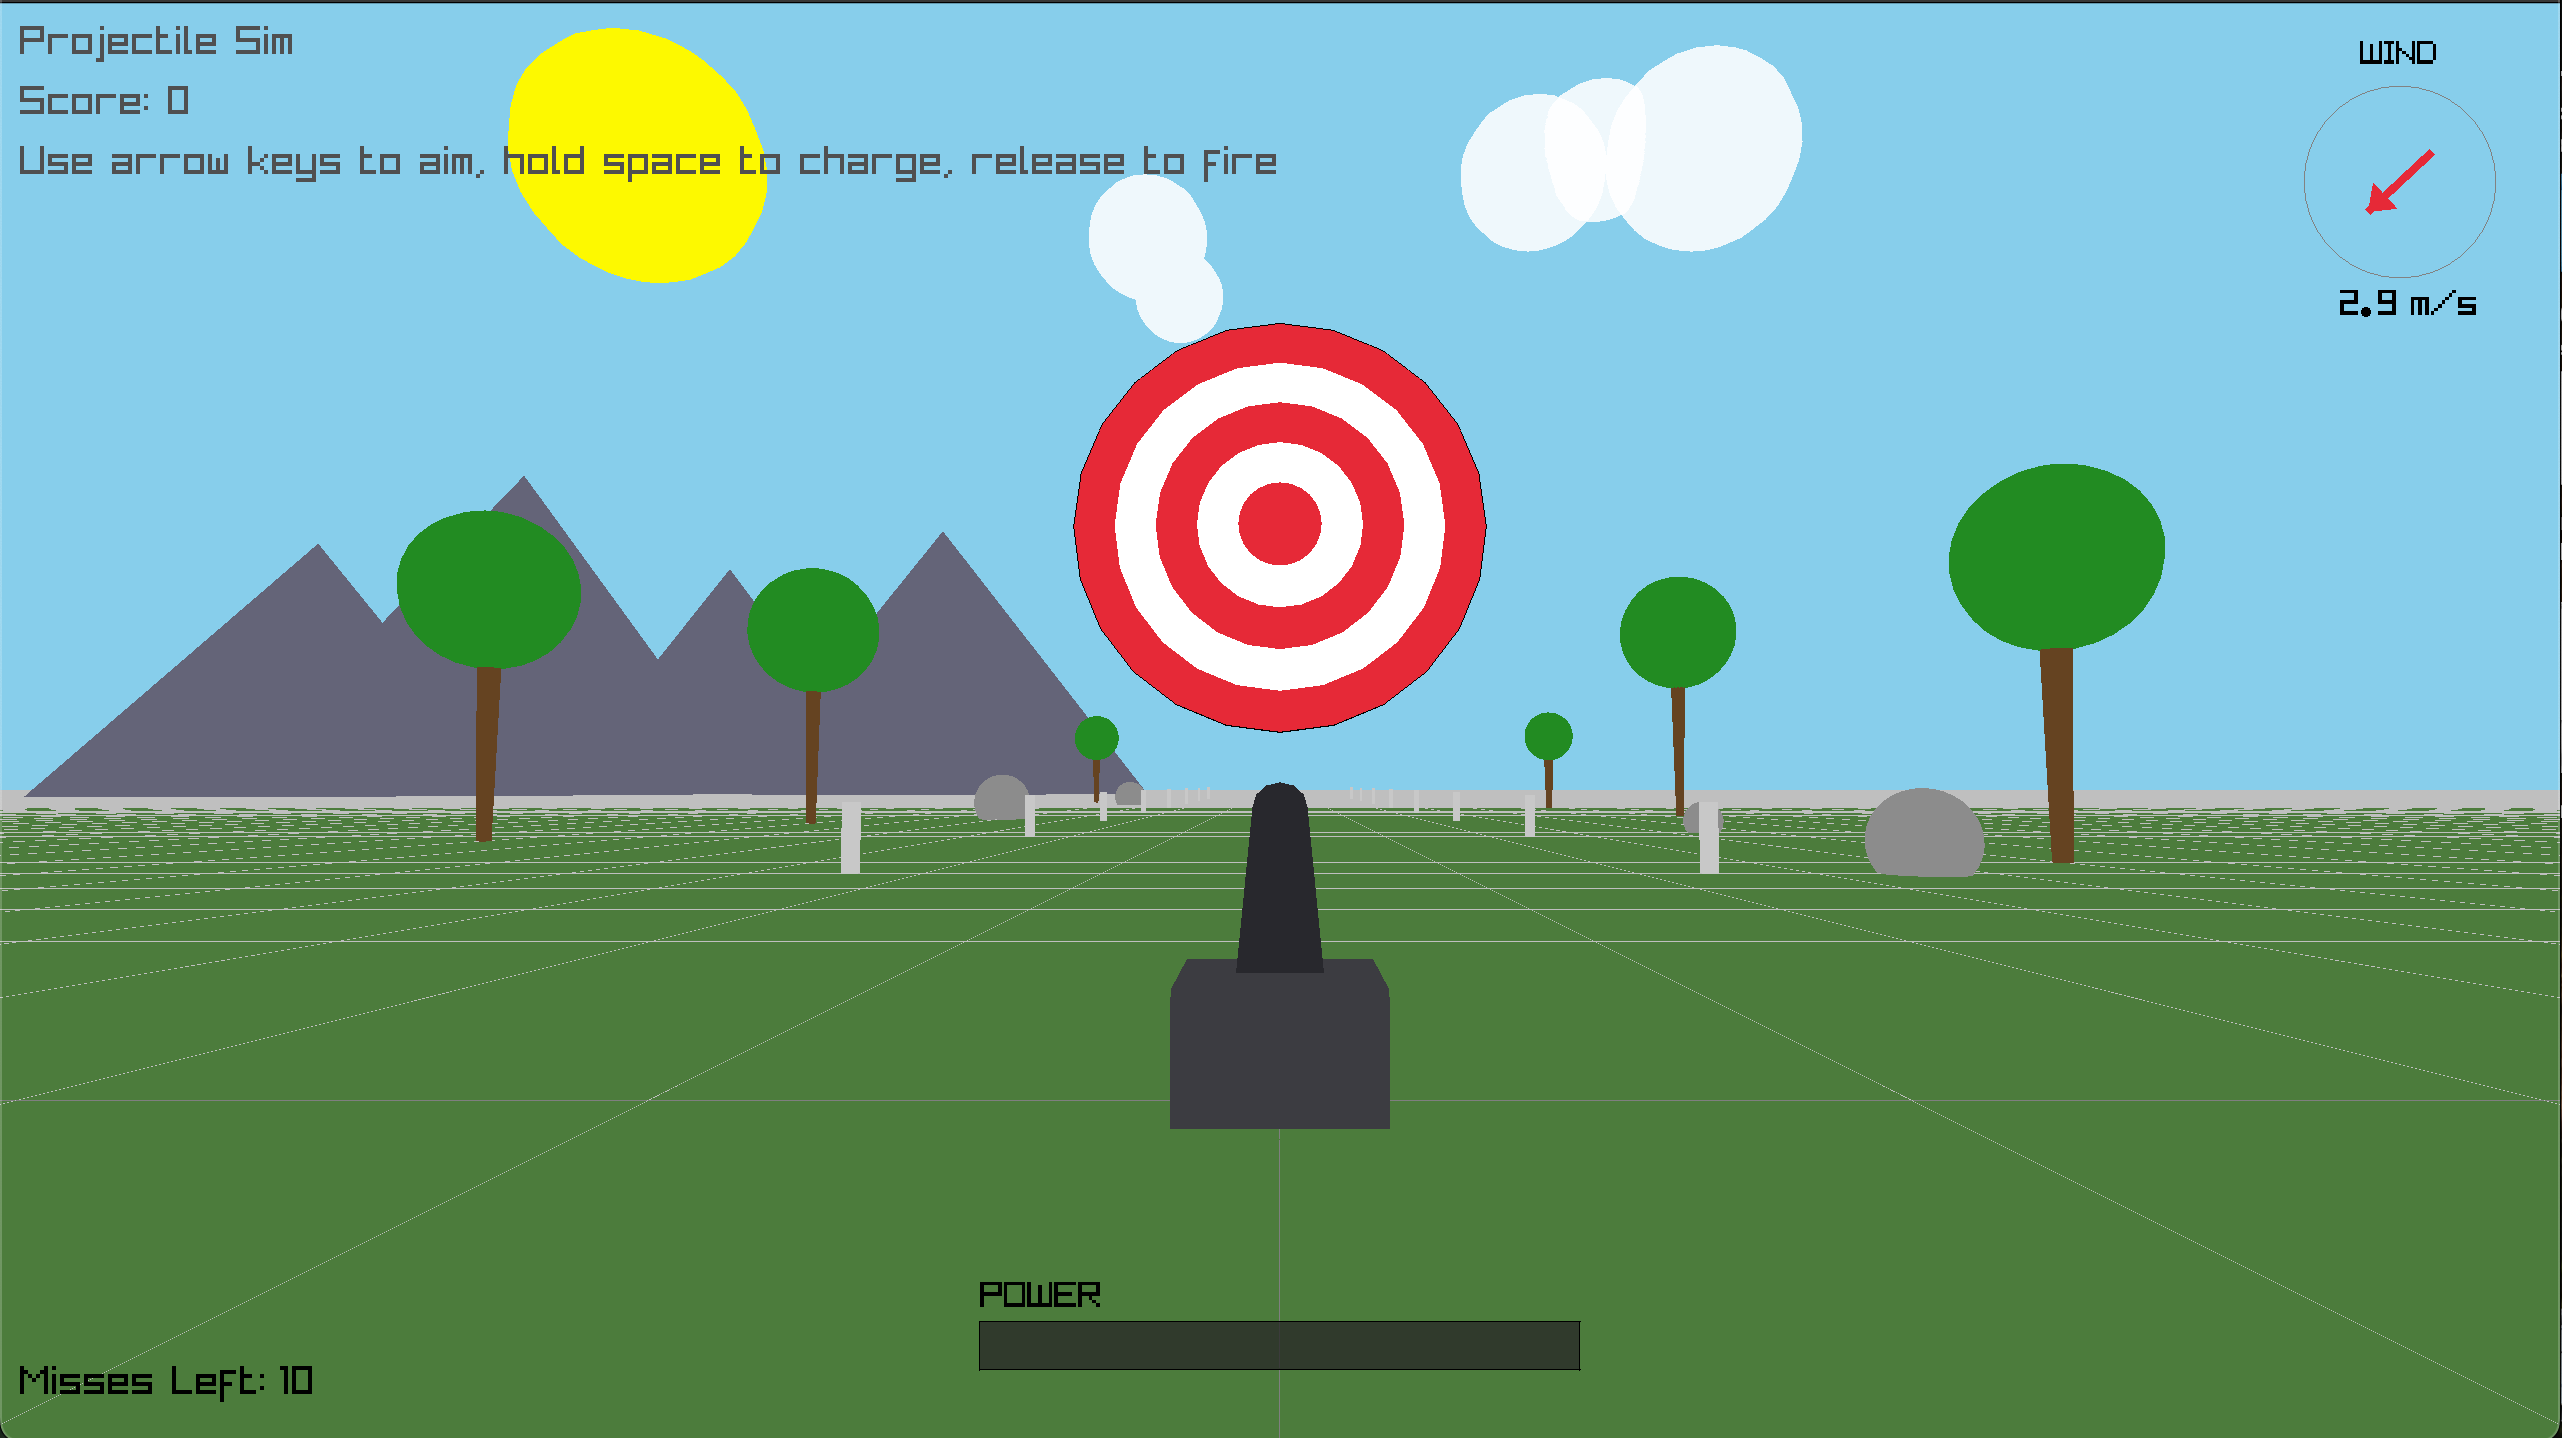
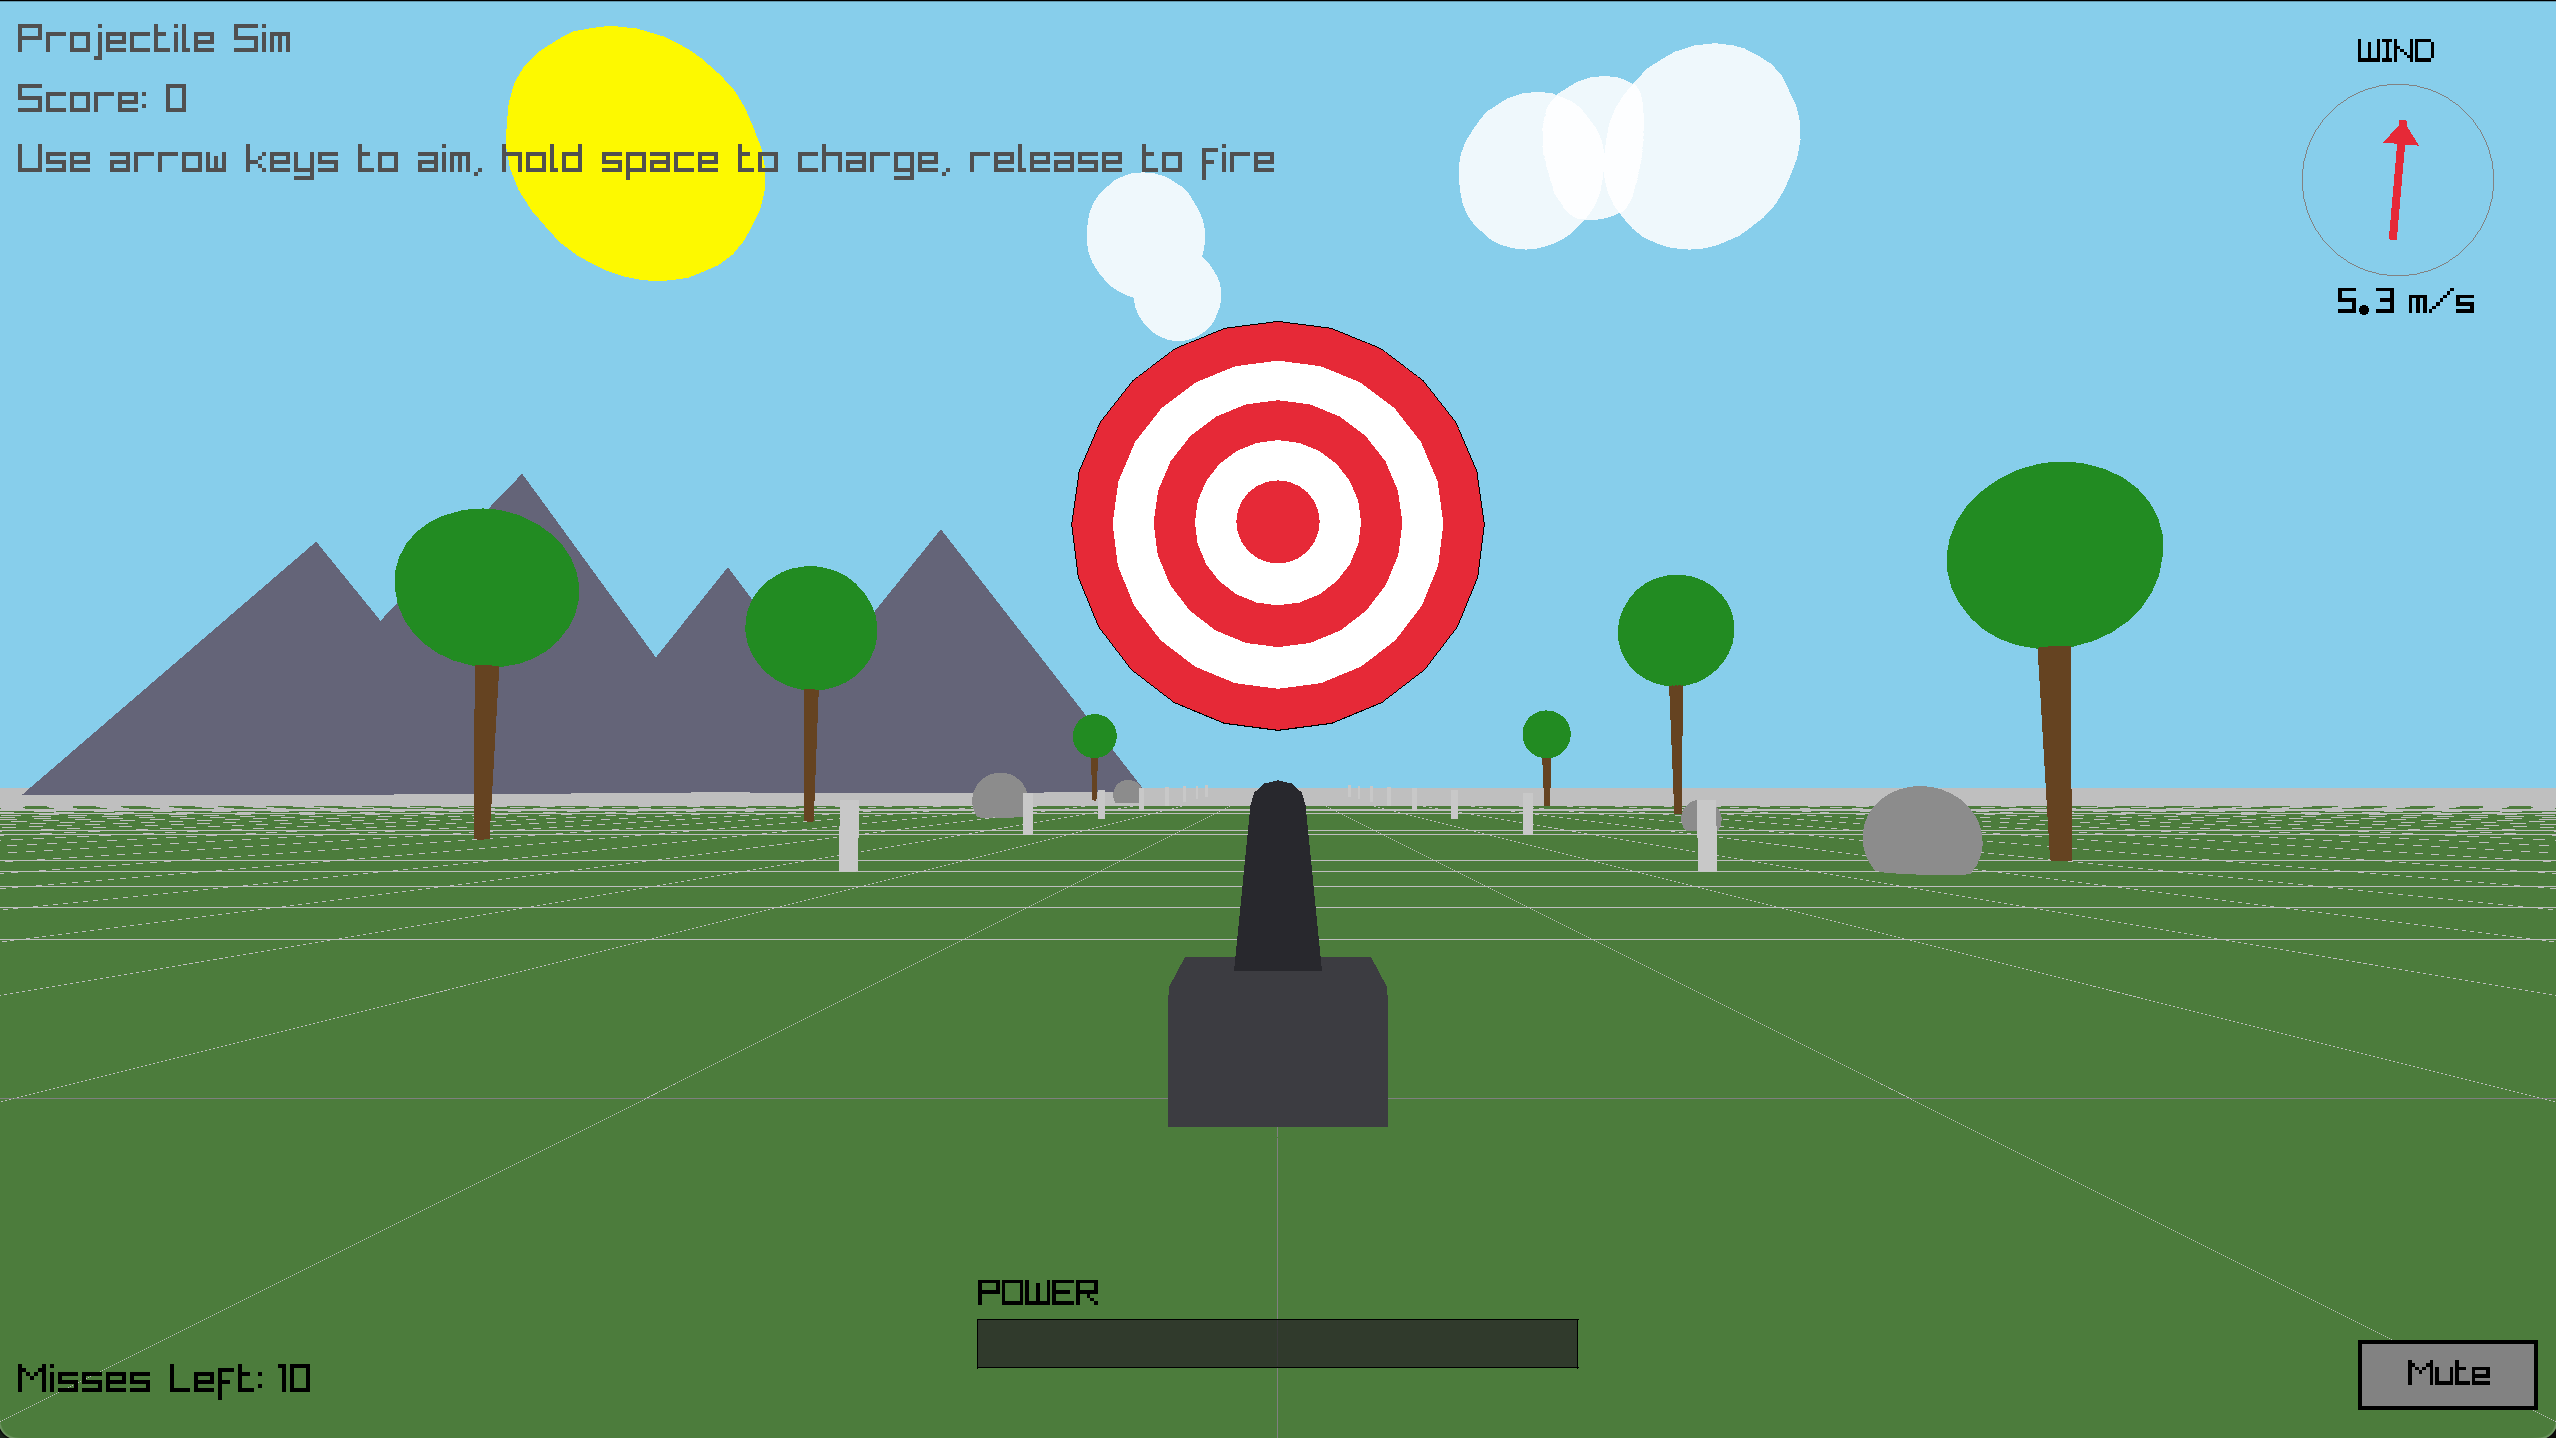
updated the readme with more detailed install instructions

diff --git a/README.md b/README.md
@@ -4,26 +4,55 @@
 
 ## How to install
 
-These instructions use [Homebrew](https://brew.sh), a package manager for macOS. If you don't already have it, install it by pasting this into your terminal and following the prompts:
+Pick the section for your operating system. The same `make` command builds the game on MacOS and Windows.
+
+### macOS
+
+These steps use [Homebrew](https://brew.sh), a package manager for macOS. If you don't already have it, install it by pasting this into your terminal and following the prompts:
 
 ```/bin/bash -c "$(curl -fsSL https://raw.githubusercontent.com/Homebrew/install/HEAD/install.sh)"```
 
-### 1. Get the code
-
-If you don't have git, install it first with `brew install git`. Then download the code and move into the project folder:
+**1. Get the code.** If you don't have git, install it first with `brew install git`. Then download the code and move into the project folder:
 
 ```
 git clone https://github.com/ehochw01/Projectile-Sim.git
 cd Projectile-Sim
 ```
 
-### 2. Install raylib
+**2. Install raylib:**
 
 ```brew install raylib```
 
-### 3. Compile and run
+**3. Compile and run:**
 
 ```make && ./sim```
+
+That's it — Ready to Play! 🎉
+
+> **Linux:** the Makefile builds on Linux too — install raylib via your package manager (e.g. `sudo apt install libraylib-dev`), then `make && ./sim`.
+
+### Windows
+
+The easiest setup on Windows is [w64devkit](https://github.com/skeeto/w64devkit/releases), which bundles `g++`, `make`, and git in one download.
+
+**1. Install w64devkit.** Download the latest release, unzip it, and run `w64devkit.exe` to open its terminal. Run all the commands below inside that terminal.
+
+**2. Get the code:**
+
+```
+git clone https://github.com/ehochw01/Projectile-Sim.git
+cd Projectile-Sim
+```
+
+**3. Install raylib.** Download the raylib Windows release from the [raylib releases page](https://github.com/raysan5/raylib/releases) (pick the `mingw-w64` build) and unzip it, for example to `C:\raylib\raylib`.
+
+**4. Compile and run.** The Makefile expects raylib at `C:/raylib/raylib`. If you put it there, just run:
+
+```make && sim.exe```
+
+If you unzipped it somewhere else, point the build at it:
+
+```make RAYLIB_PATH=C:/your/path/to/raylib && sim.exe```
 
 That's it — Ready to Play! 🎉
 